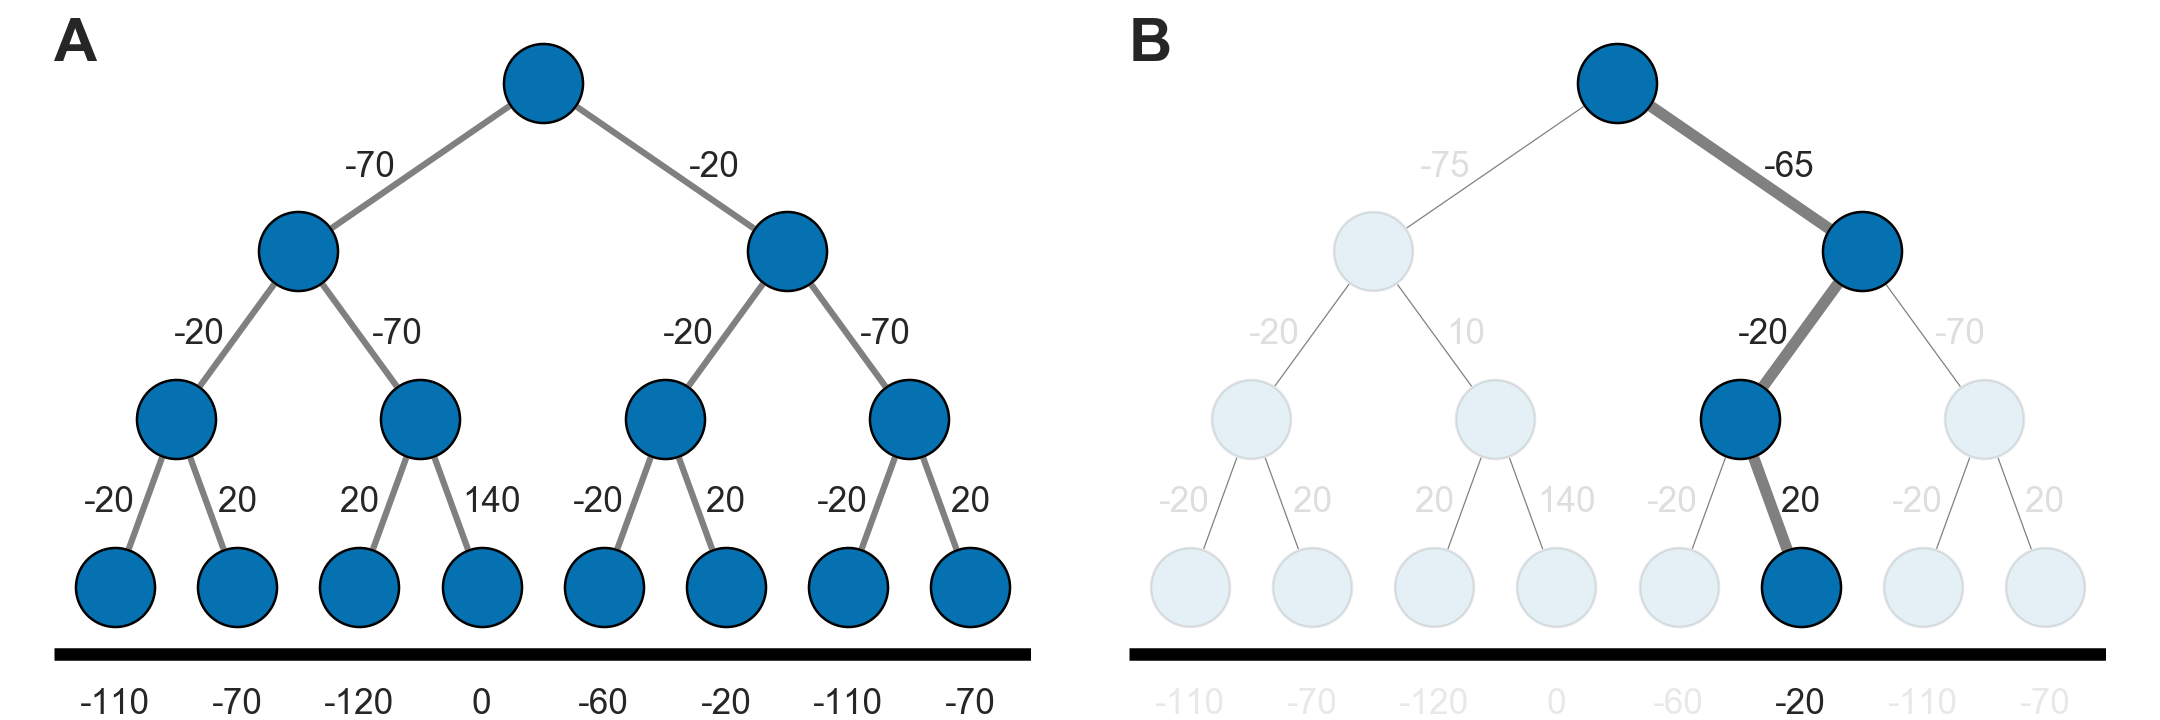
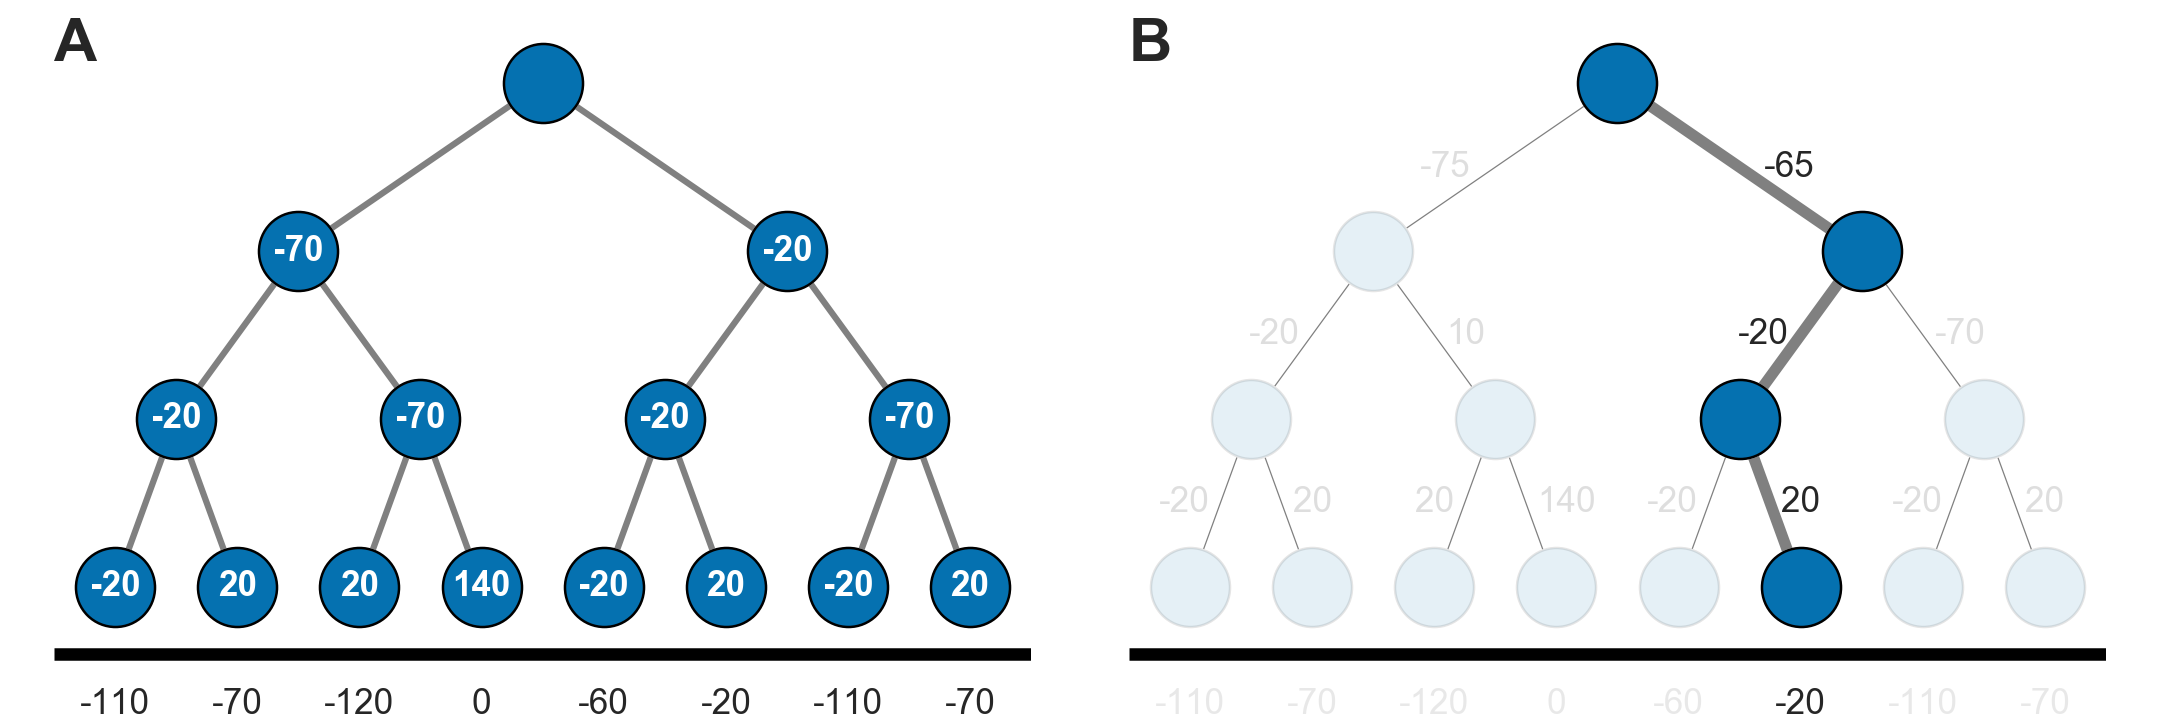
further rldm2019 updates

diff --git a/manuscripts/rldm2019/rldm2019.tex b/manuscripts/rldm2019/rldm2019.tex
@@ -35,14 +35,14 @@ Princeton, NJ 08540 \\
 \maketitle
 
 \begin{abstract}
-Anxiety disorders are characterized by aberrations in the processing and response to threat, involving symptoms like exaggerated threat appraisal, fear generalization, and persistent avoidance. These symptoms are puzzling from a decision theoretic perspective. The generalization of fear and avoidance to situations far antecedent of threat violates the core logic of evaluation over sequential trajectories of action. This is because avoidance is by nature protective: hence, the ability to avoid in future means I need not also do so now. This is an instance of a general property of evaluating actions in sequential tasks: such evaluation turns fundamentally on assumptions about subsequent events, including the agent's own subsequent choices. Typically, it is appropriate to assume that the agent will also make good choices down the line. This line of reasoning, then, hints that a core deficit in anxious disorders may relate to this assumption, which otherwise should preclude the spread of avoidance. Indeed, anxiety disorders are associated with pessimistic beliefs about the future. Here we develop this idea into a simple model of evaluation under pessimistic assumptions about future choices. We show that this single, minor deviation can explain a surprising range of features of anxious behavior  including exaggerated threat appraisals, fear generalization, and persistent avoidance. This model also offers a new formalization of classic insights from the psychiatric literature about the central role of beliefs about control and self-efficacy in anxiety. This perspective is importantly different from previous computational accounts of beliefs about control in mood disorders, which neglected the sequential aspects of choice. 
+Anxiety disorders are characterized by a range of aberrations in the processing and response to threat, but there is little clarity what core pathogenesis might underlie these symptoms. Here we propose a decision theoretic analysis of maladaptive avoidance and embody it in a reinforcement learning model, which shows how a localized bias in beliefs can formally explain a range of phenomena related to anxiety. The core observation, implicit in standard decision theoretic accounts of sequential evaluation, is that avoidance should be protective: if danger can be avoided later, it poses no threat now. We show how a violation of this assumption --- a pessimistic, false belief that later avoidance will be unsuccessful --- leads to a characteristic propagation of fear and avoidance to situations far antecedent of threat. This single deviation can explain a surprising range of features of anxious behavior, including exaggerated threat appraisals, fear generalization, and persistent avoidance. Simulations of the model reproduce laboratory demonstrations of abnormal decision making in anxiety, including in situations of approach-avoid conflict and planning to avoid losses. The model also ties together a number of other seemingly disjoint issues in anxious disorders. For instance, learning under the pessimistic bias captures a hypothesis about the role of anxiety in the later development of depression. The bias itself offers a new formalization of classic insights from the psychiatric literature about the central role of maladaptive beliefs about control and self-efficacy in anxiety. This perspective is importantly different from previous computational accounts of beliefs about control in mood disorders, which neglected the sequential aspects of choice.
 \end{abstract}
 
 \keywords{
 anxiety; avoidance; fear generalization; decision theory; computational psychiatry
 }
 
-\acknowledgements{lalalalala.} 
+\acknowledgements{This research was supported in part by NIH grant MH10917, part of the CRCNS program.} 
 
 \startmain
 
@@ -50,9 +50,9 @@ anxiety; avoidance; fear generalization; decision theory; computational psychiat
 
 Anxiety disorders are characterized by aberrations in the processing of and response to threat \citep{dsm5, ClarkBeck2011}. Specifically, anxiety is associated with exaggerated threat appraisal, or the tendency to perceive threat as disproportionately greater in likelihood and severity than is warranted; fear generalization, or the spread of fear to situations distantly associated with the primary threat \citep{dymond2015}; and persistent avoidance behavior, which can be disruptive to everyday function \citep{Arnaudova2017}. Though laboratory studies of learning in anxious populations have corroborated these clinical observations \citep{Harle2017, norbury2018, Aylward2019}, none offer an explanation as to the root of these symptoms.
 
-These symptoms are particularly puzzling from a decision theoretic perspective \citep{huys2015}. Here we identify one anomaly, which we suggest offers fundamental insights into the core of the dysfunction: The generalization of fear and avoidance to situations far antecedent of threat violates the core logic of evaluation over sequential trajectories of action. This is because avoidance is by nature protective: the ability to avoid in future means I need not also do so now. For instance, cars endanger pedestrians but can be avoided by following traffic signals; given that, staying indoors offers no additional protection from accidents. This is an instance of a general property of evaluating actions in sequential tasks: such evaluation turns fundamentally on assumptions about subsequent events, including the agent's own subsequent choices. Typically, it is appropriate to assume that the agent will also make good choices down the line. 
+The puzzle of these symptoms is particularly sharp from a decision theoretic perspective \citep{huys2015}. Here we isolate and address a  decision theoretic paradox that, we argue, clarifies the core psychopathology: The generalization of fear and avoidance to situations far antecedent of threat violates the basic logic of evaluation over sequential trajectories of action. This is because avoidance is by nature protective: the ability to avoid in future means I need not also do so now. For instance, cars endanger pedestrians but can be reliably avoided by following traffic signals; given that, staying indoors offers no additional protection from accidents. This is an instance of a general property of evaluating actions in sequential tasks: such evaluation turns fundamentally on assumptions about subsequent events, including the agent's own subsequent choices. Typically, it is appropriate to assume that the agent will also make good choices down the line. 
 
-This line of reasoning, then, hints that a core deficit in anxiety disorders may relate to this assumption, which otherwise should preclude the spread of avoidance. Indeed, anxiety disorders are associated with pessimistic beliefs about the future \citep{ClarkBeck2011}. For instance, anxious individuals are more likely to endorse beliefs like that they are likely to encounter danger in the future and that they will be unable to mitigate it when they do. Here we develop this idea into a simple model of evaluation under pessimistic assumptions about future choices. We show that this single, minor deviation can explain a surprising range of features of anxious behavior including exaggerated threat appraisal, fear generalization, and persistent avoidance. This model also offers a new formalization of classic insights from the psychiatric literature about the central role of beliefs about control and self-efficacy in anxiety. This perspective is importantly different from previous computational accounts of beliefs about control in mood disorders (e.g. \cite{HuysDayan2009}), which neglected the sequential aspects of choice. 
+This line of reasoning, then, hints that a fundamental deficit in anxiety disorders may relate to this assumption, which otherwise should preclude the spread of avoidance. Indeed, anxiety disorders are associated with pessimistic beliefs about the future \citep{ClarkBeck2011}. For instance, anxious individuals are more likely to endorse beliefs like that they are likely to encounter danger in the future and, notably, that they will be unable to mitigate it when they do. Here we develop this idea into a model of evaluation under pessimistic assumptions about future choices. We show that this single, localized deviation can explain a surprising range of features of anxious behavior including exaggerated threat appraisal, fear generalization, and persistent avoidance. This model also offers a new formalization of classic insights from the psychiatric literature about the central role of beliefs about control and self-efficacy in anxiety. Our perspective is importantly different from previous computational accounts of beliefs about control in mood disorders (e.g. \cite{HuysDayan2009}), which neglected the sequential aspects of choice. 
 
 \section{Model description}
 
@@ -66,7 +66,7 @@ but for any particular state-action $a$, this is necessarily defined only relati
 \end{equation}
 The ``max'' operator in Eq.~\ref{eq:bellman} yields a fundamental asymmetry between approach and avoidance, as illustrated in Fig.~1. The assumption that the agent makes the return-optimizing choice at each step implies that opportunities propagate recursively to earlier steps, but avoidable dangers do not. This principle is highlighted in a toy MDP: a deterministic open gridworld with terminal states containing a single reward and punishment (Fig.~1a). The optimal state values $V^* = \max_a Q^*(s,a)$ (Fig.~1b) reflect a ``mountain'' of opportunity propagating recursively from the reward. Conversely, because harm is avoidable in this environment, its negative value is contained: all states (even those adjacent to threat) represent the opportunity for reward.
 
-Consider an agent who instead has pessimistic expectations about their future actions. Such returns can be adaptive to achieve robustness such as under adversarial scenarios \cite{Garcia2015}; here we propose unrealistically pessimistic assumptions as a root cause of many anxious symptoms. We adopt the $\beta$-pessimistic value function from \cite{Gaskett2003}, to define
+Consider an agent who instead has pessimistic expectations about their future actions. Such returns can be adaptive to ensure robustness such as under adversarial scenarios \cite{Garcia2015}; here we propose unrealistically pessimistic assumptions as a root cause of many anxious symptoms. We adopt the $\beta$-pessimistic value function from \cite{Gaskett2003}, to define
 \begin{equation*}
 Q^w(s,a) = r(s,a) + \gamma \sum_{s'} p(s' \mid s,a) \left( w \max_{a'} Q^w(s',a') + (1 - w) \min_{a'} Q^w(s',a') \right)
 \end{equation*}
@@ -79,14 +79,14 @@ Here, the parameter $w$ controls the degree of pessimism. An optimistic agent ($
   \par \textbf{Figure 1:} A simple deterministic gridworld with two terminal states: one rewarding (blue) and aversive (red) state (A). For an optimistic agent ($w=1$), all states (other than the harmful state) take on positive value (B). For a pessimistic agent ($w=0.5$), negative value spreads from the source to antecedent states (C). With increasing pessimism ($w=0$), the extent of the spread grows worse (D). (Parameters: $\gamma = 0.95$)
 \end{figure}
 
-This simple simulation --- reflecting a small violation of a core decision theoretic assumption --- already echoes several core symptoms of anxiety disorders. The pessimistic agents in Fig~1c,d exhibit exaggerated threat appraisals (otherwise neutral states signal danger); generalization of fear (threat value spreads across the gridworld); and persistent avoidance (the agent chooses paths which maintain increasing distance from threat).
+This simple simulation --- reflecting a localized violation of a core decision theoretic assumption --- already echoes several core symptoms of anxiety disorders. The pessimistic agents in Fig~1c,d exhibit exaggerated threat appraisals (otherwise neutral states signal danger); generalization of fear (threat value spreads across the gridworld); and persistent avoidance (the agent chooses paths which maintain increasing distance from threat).
 
 \section{Simulations}
 \textbf{Approach-avoid conflict:} One behavioral finding characteristic of anxiety disorders is unbalanced processing of approach-avoidance conflict \citep{aupperle2010}. Many of the disruptions anxiety causes to everyday functioning (e.g. avoiding social obligations for fear of possible social humiliation) can be understood in these terms. An analogous phenomenon can be measured in the laboratory. For instance, in the balloon analog risk task (BART) \citep{Lejuez2002}, participants can win money by pumping virtual balloons. With each pump, the balloon inflates and money is earned, but so too does the chance that the balloon pops (and money is lost). At any point, a participant may cash out, banking the money earned and ending the trial. Anxiety is correlated with fewer pumps and earlier cash-outs in the BART \citep{Maner2007, ramirez2015}.
 
 As shown in Fig.~2, our model easily accommodates this result. Whereas optimistic agents pump until the marginal gain of a pump no longer offsets the chance of the balloon bursting, optimal choice under increasingly pessimistic (i.e., anxious) assumptions cashes out progressively earlier. This is because it anticipates and avoids future errors in choice resulting in the balloon popping. Our model can analogously explain other manifestations of biased approach-avoid conflict in anxiety\cite{bach2015,Mobbs2019}. One unique prediction of the model is that this bias should arise only when beliefs about \emph{future} avoidance are involved, rather than direct conflict between immediate impulses. Recent data \cite{Mobbs2019} using a predator avoidance task analogous to the BART, support this view: sub-clinical anxiety predicted earlier escape (analogous to cash-out in the BART) for slow predators (for whom future decisions to escape were a relevant consideration) but not fast ones (who would attack immediately, negating consideration of future steps).
 
-\textbf{Aversive pruning:} Another empirical phenomenon associated with anxiety is ``aversive pruning'' in planning \cite{Huys2012, Lally2017}. This refers to the idea that when evaluating future trajectories in a sequential task like chess, people must selectively consider certain paths and neglect others. One proposal for how people accomplish this is aversive pruning \citep{Huys2012}: choice sequences involving large losses are discarded from further evaluation. For instance, although the optimal choice in the decision tree from Fig.~3a is to weather an initial large loss in order to reap the large gain that follows, people tend to disfavor this path suggesting they neglect the later gain. The degree of such pruning correlates with depressive \cite{Huys2012} and anxiety \cite{Lally2017} symptoms. Our model predicts this result (Fig.3~b), though for a somewhat different reason: in our model, pessimistic (anxious) agents neglect large gains deeper in the tree, not because they fail to consider them, but because with increasing anxiety they increasingly predict the possibility of choosing incorrectly afterward, and failing to recoup the loss. Future research could use slight variants in the decision trees could be used to tease apart these different interpretations.
+\textbf{Aversive pruning:} Another empirical phenomenon associated with anxiety is ``aversive pruning'' in planning \cite{Huys2012, Lally2017}. This refers to the idea that when evaluating future trajectories in a sequential task like chess, people must selectively consider certain paths and neglect others. One proposal for how people accomplish this is aversive pruning \citep{Huys2012}: choice sequences involving large losses are discarded from further evaluation. For instance, although the optimal choice in the decision tree from Fig.~3a is to weather an initial large loss in order to reap the large gain that follows, people tend to disfavor this path suggesting they neglect the later gain. The degree of such pruning correlates with depressive \cite{Huys2012} and anxiety \cite{Lally2017} symptoms. Our model predicts this result (Fig.~3b), though for a somewhat different reason: in our model, pessimistic (anxious) agents neglect large gains deeper in the tree, not because they fail to consider them, but because with increasing anxiety they increasingly predict the possibility of choosing incorrectly afterward, and failing to recoup the loss. Future research could use slight variants in the decision trees to tease apart these different interpretations.
 
 \begin{figure}
   \centerline{%
@@ -99,18 +99,20 @@ As shown in Fig.~2, our model easily accommodates this result. Whereas optimisti
 
 Of note in this respect, anxiety and depression are highly comorbid, with roughly 45\% of individuals with a lifetime depression diagnosis also diagnosed with an anxiety disorder \citep{kessler2015}. One interesting proposal is that this association often arises longitudinally: in particular, that anxiety precedes certain types of depression \citep{alloy1990, jacobson2014}. The idea, in brief, is that anxiety begets avoidance and foregone reward, leading ultimately to a belief that reward is unattainable and subsequently depression. This story is borne out by simulations of learning in our model (not shown, for space) in environments like that of Fig.~1: the penumbra of negative value under pessimistic assumptions spreads gradually throughout the environment with the progress of learning, ultimately leading the agent to expect no reward and, echoing anergic symptoms of depression, forego action altogether.
 
-\section{Discussion}
-
-Central to anxiety disorders are symptoms including pessimistic inference, threat generalization, and excessive avoidance. We have presented a simple computational account suggesting how a single underlying misbelief can give rise to a range of these aberrations in learning and choice. Specifically, we showed how a failure to believe in the reliability of future self-action can effectively backpropagate negative value across states of the environment. This process results in a range of inferences and behaviors resembling those observed in clinical anxiety. Though this is by no means a complete account of anxiety, it ties together a surprisingly wide range of its symptoms.
-
-One important ambiguity is that we have formalized pessimistic assumptions in terms of beliefs about the agent's own future actions: expecting failure, for instance, to avoid in future. Since Eq.~1 is also computed in expectation over the anticipated future environmental dynamics $p(s' \mid s,a)$, pessimism can alternatively be encoded in this distribution (e.g., a belief that the world's response to one's choices is unpredictable or adversarial). Since the Bellman equation averages out both distributions, either formulation can produce ultimately similar results. However from the perspective of cognitive theories of anxiety, these represent quite different maladaptive beliefs, which may be relevant, for instance, in guiding treatment.
+A second point about learning in this model is that, because the pessimistic return ultimately spreads biased value estimates to states and actions far distant from the primary danger (e.g., Fig.~1d), it would accordingly also take a great many steps of iterative learning to correct all these misattributions, even given direct experience that the danger itself has passed. This may offer at least a partial answer to a classic puzzle in pathological avoidance, i.e. why it is so resistant to extinction \cite{moutoussis2018}.
 
 \begin{figure}[!b]
   \centerline{%
     \resizebox{1.0\textwidth}{!}{\includegraphics[trim={0 0 0 0},clip]{../../figures/04_tree_rldm.png}}%
   }
-  \par \textbf{Figure 3:} The decision tree environment from \cite{Huys2012} and \cite{Lally2017} (A). An optimistic agent ($w=1$) prefers the optimal loss-minimizing policy through the initial large loss (B). A pessimistic agent ($w=0.5$) comes to prefer the branch without the large loss so as to avoid being unable to recoup the large initial loss. The net value $Q$ on each path is shown numerically.
+  \par \textbf{Figure 3:} The decision tree environment from \cite{Huys2012} and \cite{Lally2017} (A). An optimistic agent ($w=1$) prefers the optimal loss-minimizing policy through the initial large loss (B). A pessimistic agent ($w=0.5$) comes to prefer the branch without the large loss so as to avoid being unable to recoup the large initial loss. One-step rewards are presented in each state; the net value $Q$ on each path is shown numerically.
 \end{figure}
+
+\section{Discussion}
+
+Central to anxiety disorders are symptoms including pessimistic inference, threat generalization, and excessive avoidance. We have presented a simple computational account suggesting how a single underlying misbelief can give rise to a range of these aberrations in learning and choice. Specifically, we showed how a failure to believe in the reliability of future self-action can effectively backpropagate negative value across states of the environment. This process results in a range of inferences and behaviors resembling those observed in clinical anxiety. Though this is by no means a complete account of anxiety, it ties together a surprisingly wide range of its symptoms.
+
+One important ambiguity is that we have formalized pessimistic assumptions in terms of beliefs about the agent's own future actions: expecting failure, for instance, to avoid in future. Since Eq.~1 is also computed in expectation over the anticipated future environmental dynamics $p(s' \mid s,a)$, pessimism can alternatively be encoded in this distribution (e.g., a belief that the world's response to one's choices is unpredictable or adversarial). Because the Bellman equation averages out both distributions,  and because an unpredictable environment also reduces the efficacy of avoidance, either formulation can produce ultimately similar results. However from the perspective of cognitive theories of anxiety, these represent quite different maladaptive beliefs, which may be relevant, for instance, in guiding treatment.
 
 Indeed, our account formalizes a longstanding strand of theory on the role of control in anxiety. Central to many prominent cognitive theories of anxiety in the psychiatric literature is a perceived lack of control. For example, learned helplessness theory claims that pathological anxiety results from a belief that the environment is uncontrollable, such that threat cannot be effectively mitigated \cite{alloy1990}. In contrast, Bandura's self-efficacy theory of anxiety posited that a lack of confidence in one's own ability to effectively handle threat was instead central \cite{bandura1977}. As we note above, the present model (though stated here in terms echoing Bandura's) can accommodate either variant, and they are by no means mutually exclusive. 
 

diff --git a/sisyphus/envs/_tree.py b/sisyphus/envs/_tree.py
@@ -99,11 +99,19 @@ class DecisionTree(GraphWorld):
 
         return ax
 
-    def _draw_node_labels(self, ax, xpos, ypos, fontsize=14):
-        """Draw decision tree node labels. See plot_decision tree for details."""
+    def _draw_node_labels(self, ax, fontsize=14, color='w'):
+        """Draws one-step reward values as node labels."""
 
-        for i, (x, y) in enumerate(zip(xpos, ypos)):
-            ax.text(x, y, '%0.0f' %(i+1), ha='center', va='center', fontsize=fontsize)
+        ## Define node positions.
+        xpos = [-1,1,-1.5,-0.5,0.5,1.5,-1.75,-1.25,-0.75,-0.25,0.25,0.75,1.25,1.75]
+        ypos = [2, 2, 1, 1, 1, 1, 0, 0, 0, 0, 0, 0, 0, 0]
+        
+        ## Define node values.
+        labels = [-70, -20, -20, -70, -20,-70, -20, 20, 20, 140, -20, 20, -20, 20]
+        
+        for x, y, label in zip(xpos, ypos, labels):
+            ax.text(x, y, '%0.0f' %label, ha='center', va='center', fontsize=fontsize, 
+                    fontweight='heavy', color=color)
 
         return ax
 
@@ -224,7 +232,7 @@ class DecisionTree(GraphWorld):
 
         ## Optional details.
         if path_sums: ax = self._draw_path_sums(ax, xpos[-8:], alpha=alpha)
-        if node_labels: ax = self._draw_node_labels(ax, xpos, ypos)
+        if node_labels: ax = self._draw_node_labels(ax)
         if isinstance(edge_labels, (list, tuple, np.ndarray)): 
             ax = self._draw_edge_labels(ax, edge_labels, alpha=edge_label_alpha)
         elif np.equal(edge_labels, True):
